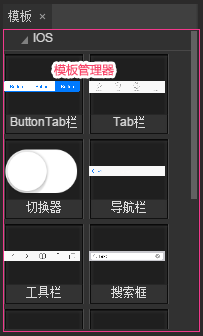
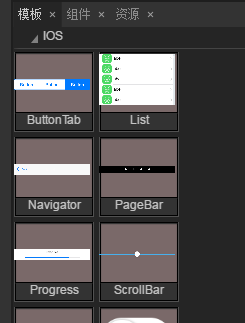
add

diff --git a/Chinese/LayaAir_AS3/IDE/Design_Mode/Template/readme.md b/Chinese/LayaAir_AS3/IDE/Design_Mode/Template/readme.md
@@ -1,40 +1,35 @@
-# 模板管理器
+# 模板库
 
- 
+>  本篇采用LayaAirIDE 1.7.3 bate 截图，如有不同，请下载最新的LayaAirIDE，以最新版本IDE为准。
 
-        模板管理器是我们用来使用和管理模板的工作区域。在进行工作时，使用模板可以大大的提升工作人员的效率需求。  
+        
+
+模板库是我们用来存放和使用模板的工作区域。使用模板可以大大的提升工作人员的效率需求。  
 
 
 
-### 一、界面介绍
+### 一、默认的IOS风格模板
 
-        模板管理器 将项目模板文件夹中的内容以树形缩略图的形式展示出来，开发者可以自己创建模板来保存，模板是全局通用的。LayaAirIDE第一次运行时已创建了一批IOS的模型。
+        LayaAirIDE默认提供了一批IOS风格的常用UI模板，如图1所示。
 
         ![图片1.png](img/1.png)<br/>
         （图1）
 
- 
+    
 
-### 二、创建模板
+### 二、创建常用模板和自定义模板
 
-        在 项目管理器 中我们可以自己定义出一个模板 View 然后转换成模板保存。
+在`项目管理器`中的UI文件，可以直接右键转换成`常用模板`或者是`自定义模板`。如动图2所示。
 
-        首先，我们需要创建一个新的页面，并配置好我们的模板样式。设置好样式之后，我们需要将场景大小设置成与模板大小一样，否则在以后的使用中可能会出现坐标系不准确的错误。
+![动图2](img/2.gif) <br /> (动图2)
 
-        ![图片1.png](img/2.png) <br/>
-        （图2）
+转换成功后会自动刷新面板，如是是首次使用模板转换功能，会自动创建对应的模板目录，如图3所示，我们可以看到`IOS`、`常用模板`、`自定义模板`三个分类目录。
 
-        在 项目管理器 中我们选中模板页面，点击鼠标右键，在弹出的菜单中选择转为模板。
+![图3](img/3.png) <br /> (图3)
 
-        ![图片1.png](img/3.png) <br/>
-        （图3）
+模板的目录位于`IDE根目录\resources\app\out\vs\layaEditor\laya\template`目录中，如图4所示，
 
-        在弹出的窗口中我们来设置需要转换成自定义模板或常用模板。
+![图4](img/4.png) <br />(图4)
 
-        ![图片1.png](img/4.png) <br/>
-        （图4）
+*Tips: 创建的UI模板是可以用于其它项目的通用模板。*
 
-        点击新增按钮，我们就可以在 模板管理器 中看到我们创建出来的模板了。
-
-        ![图片1.png](img/5.png)<br/>
-        （图5）
